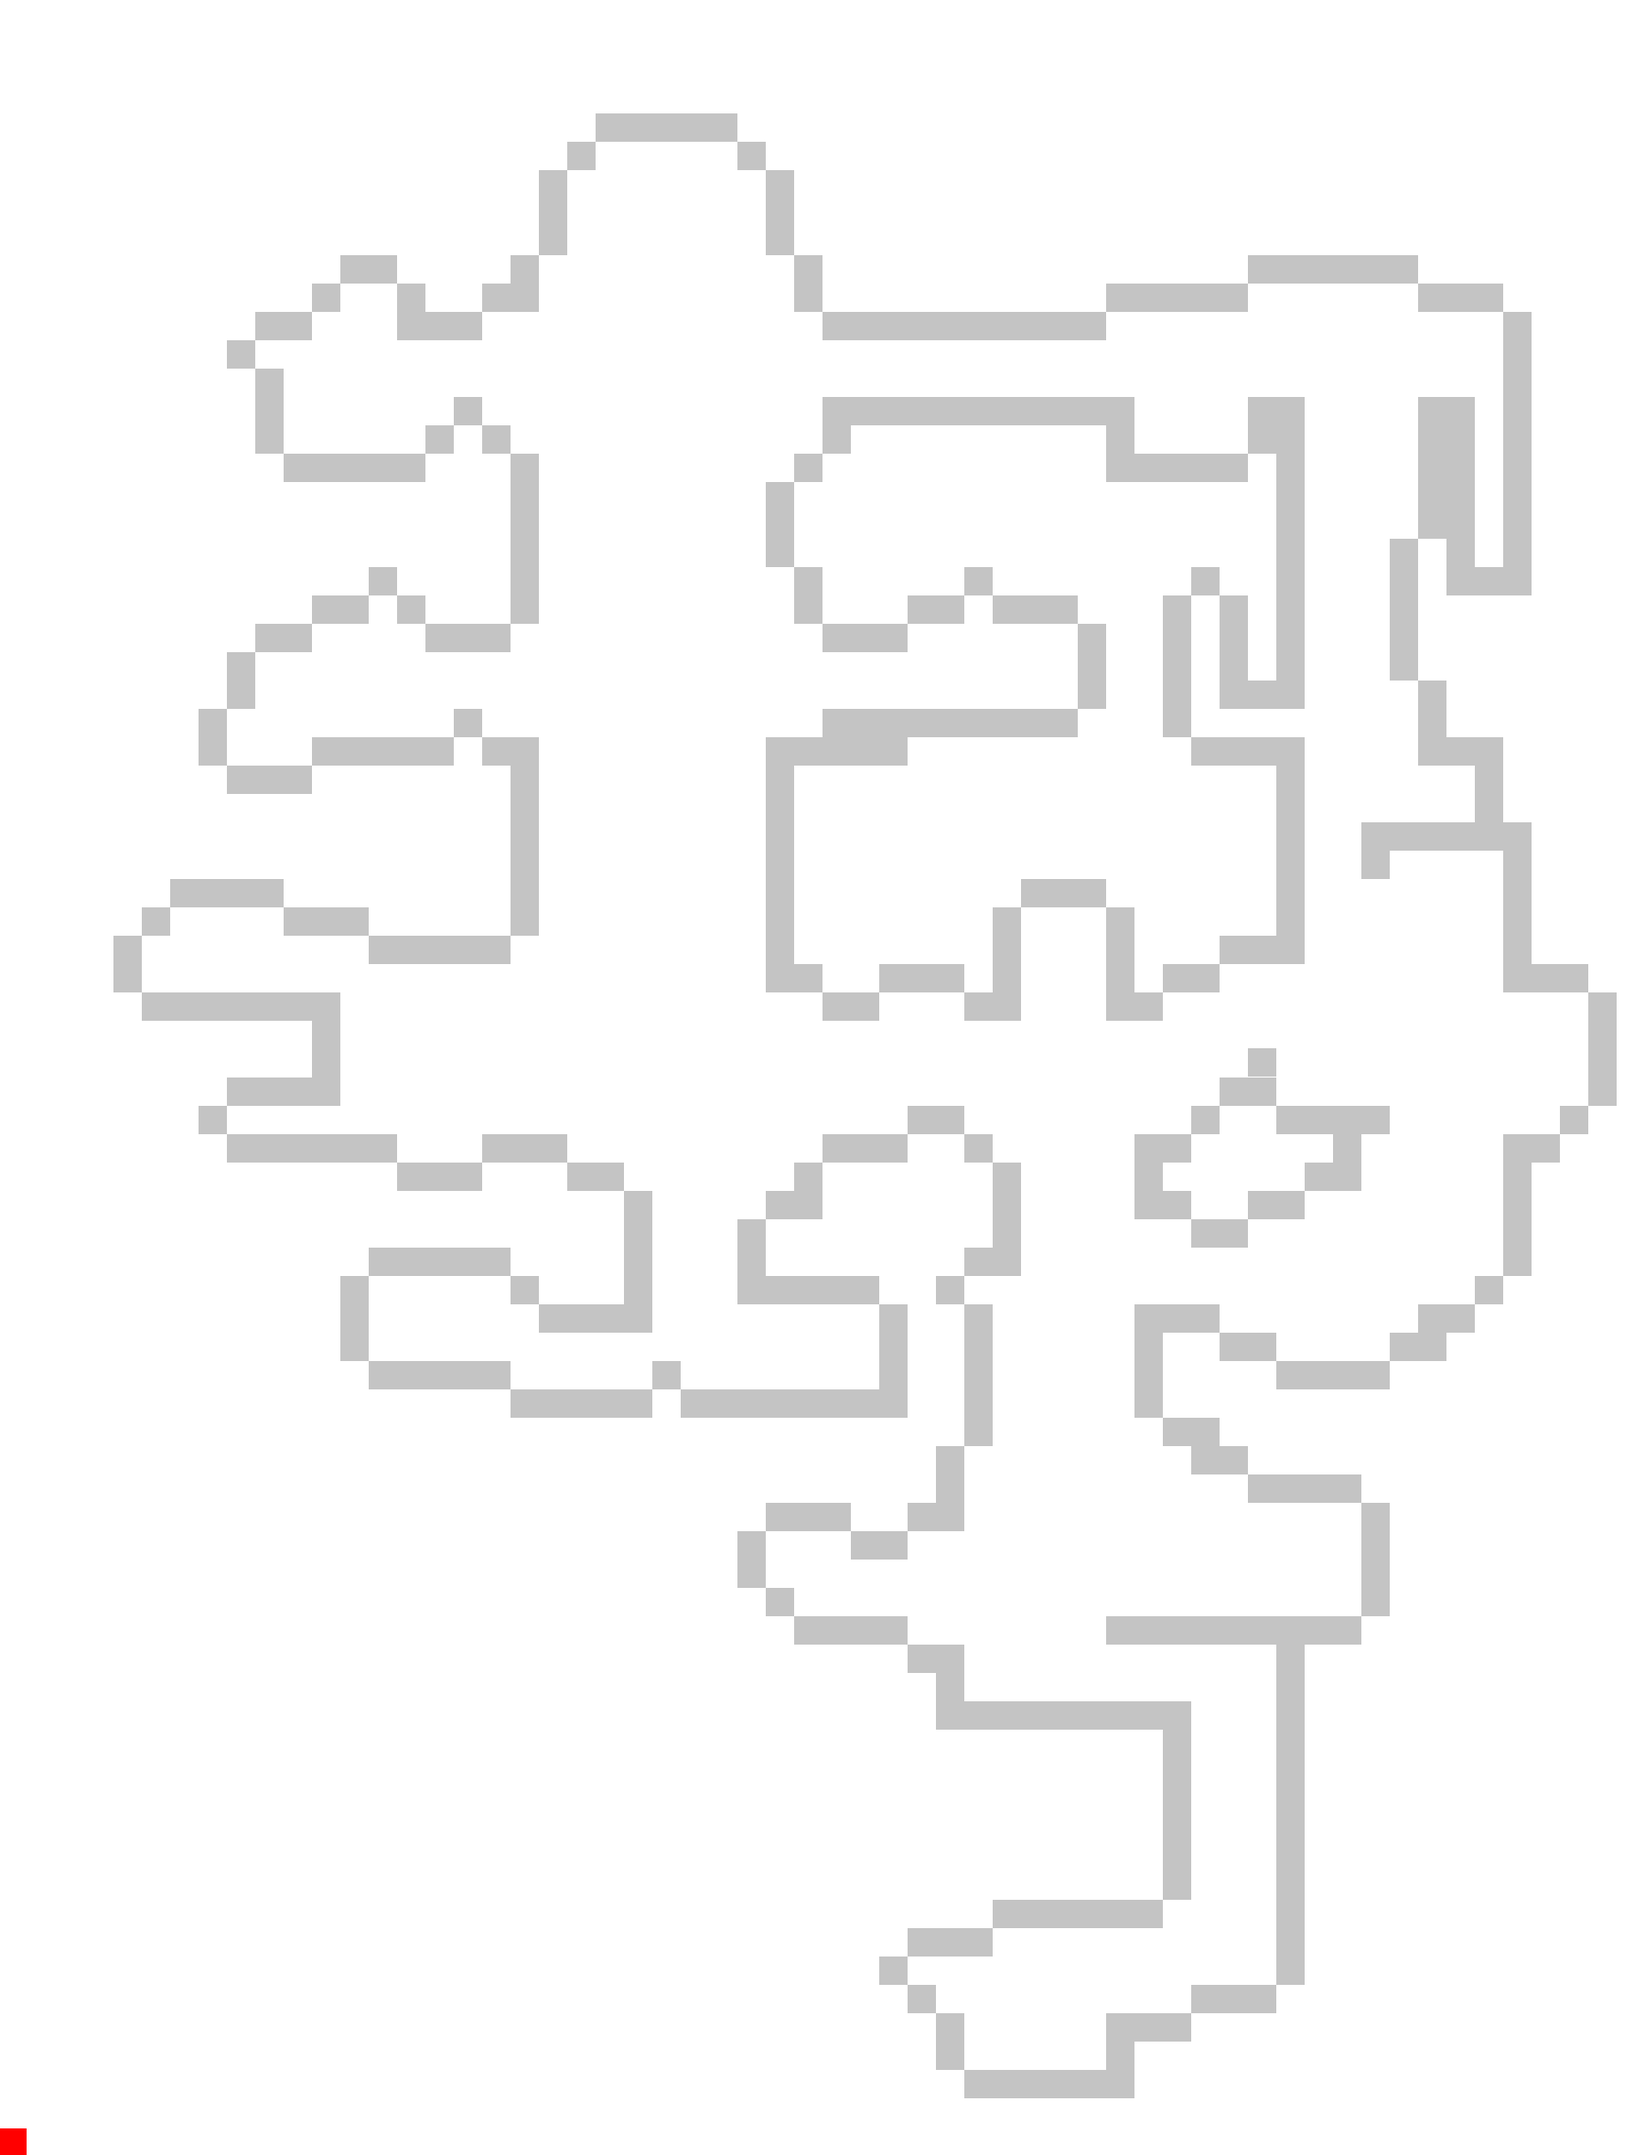
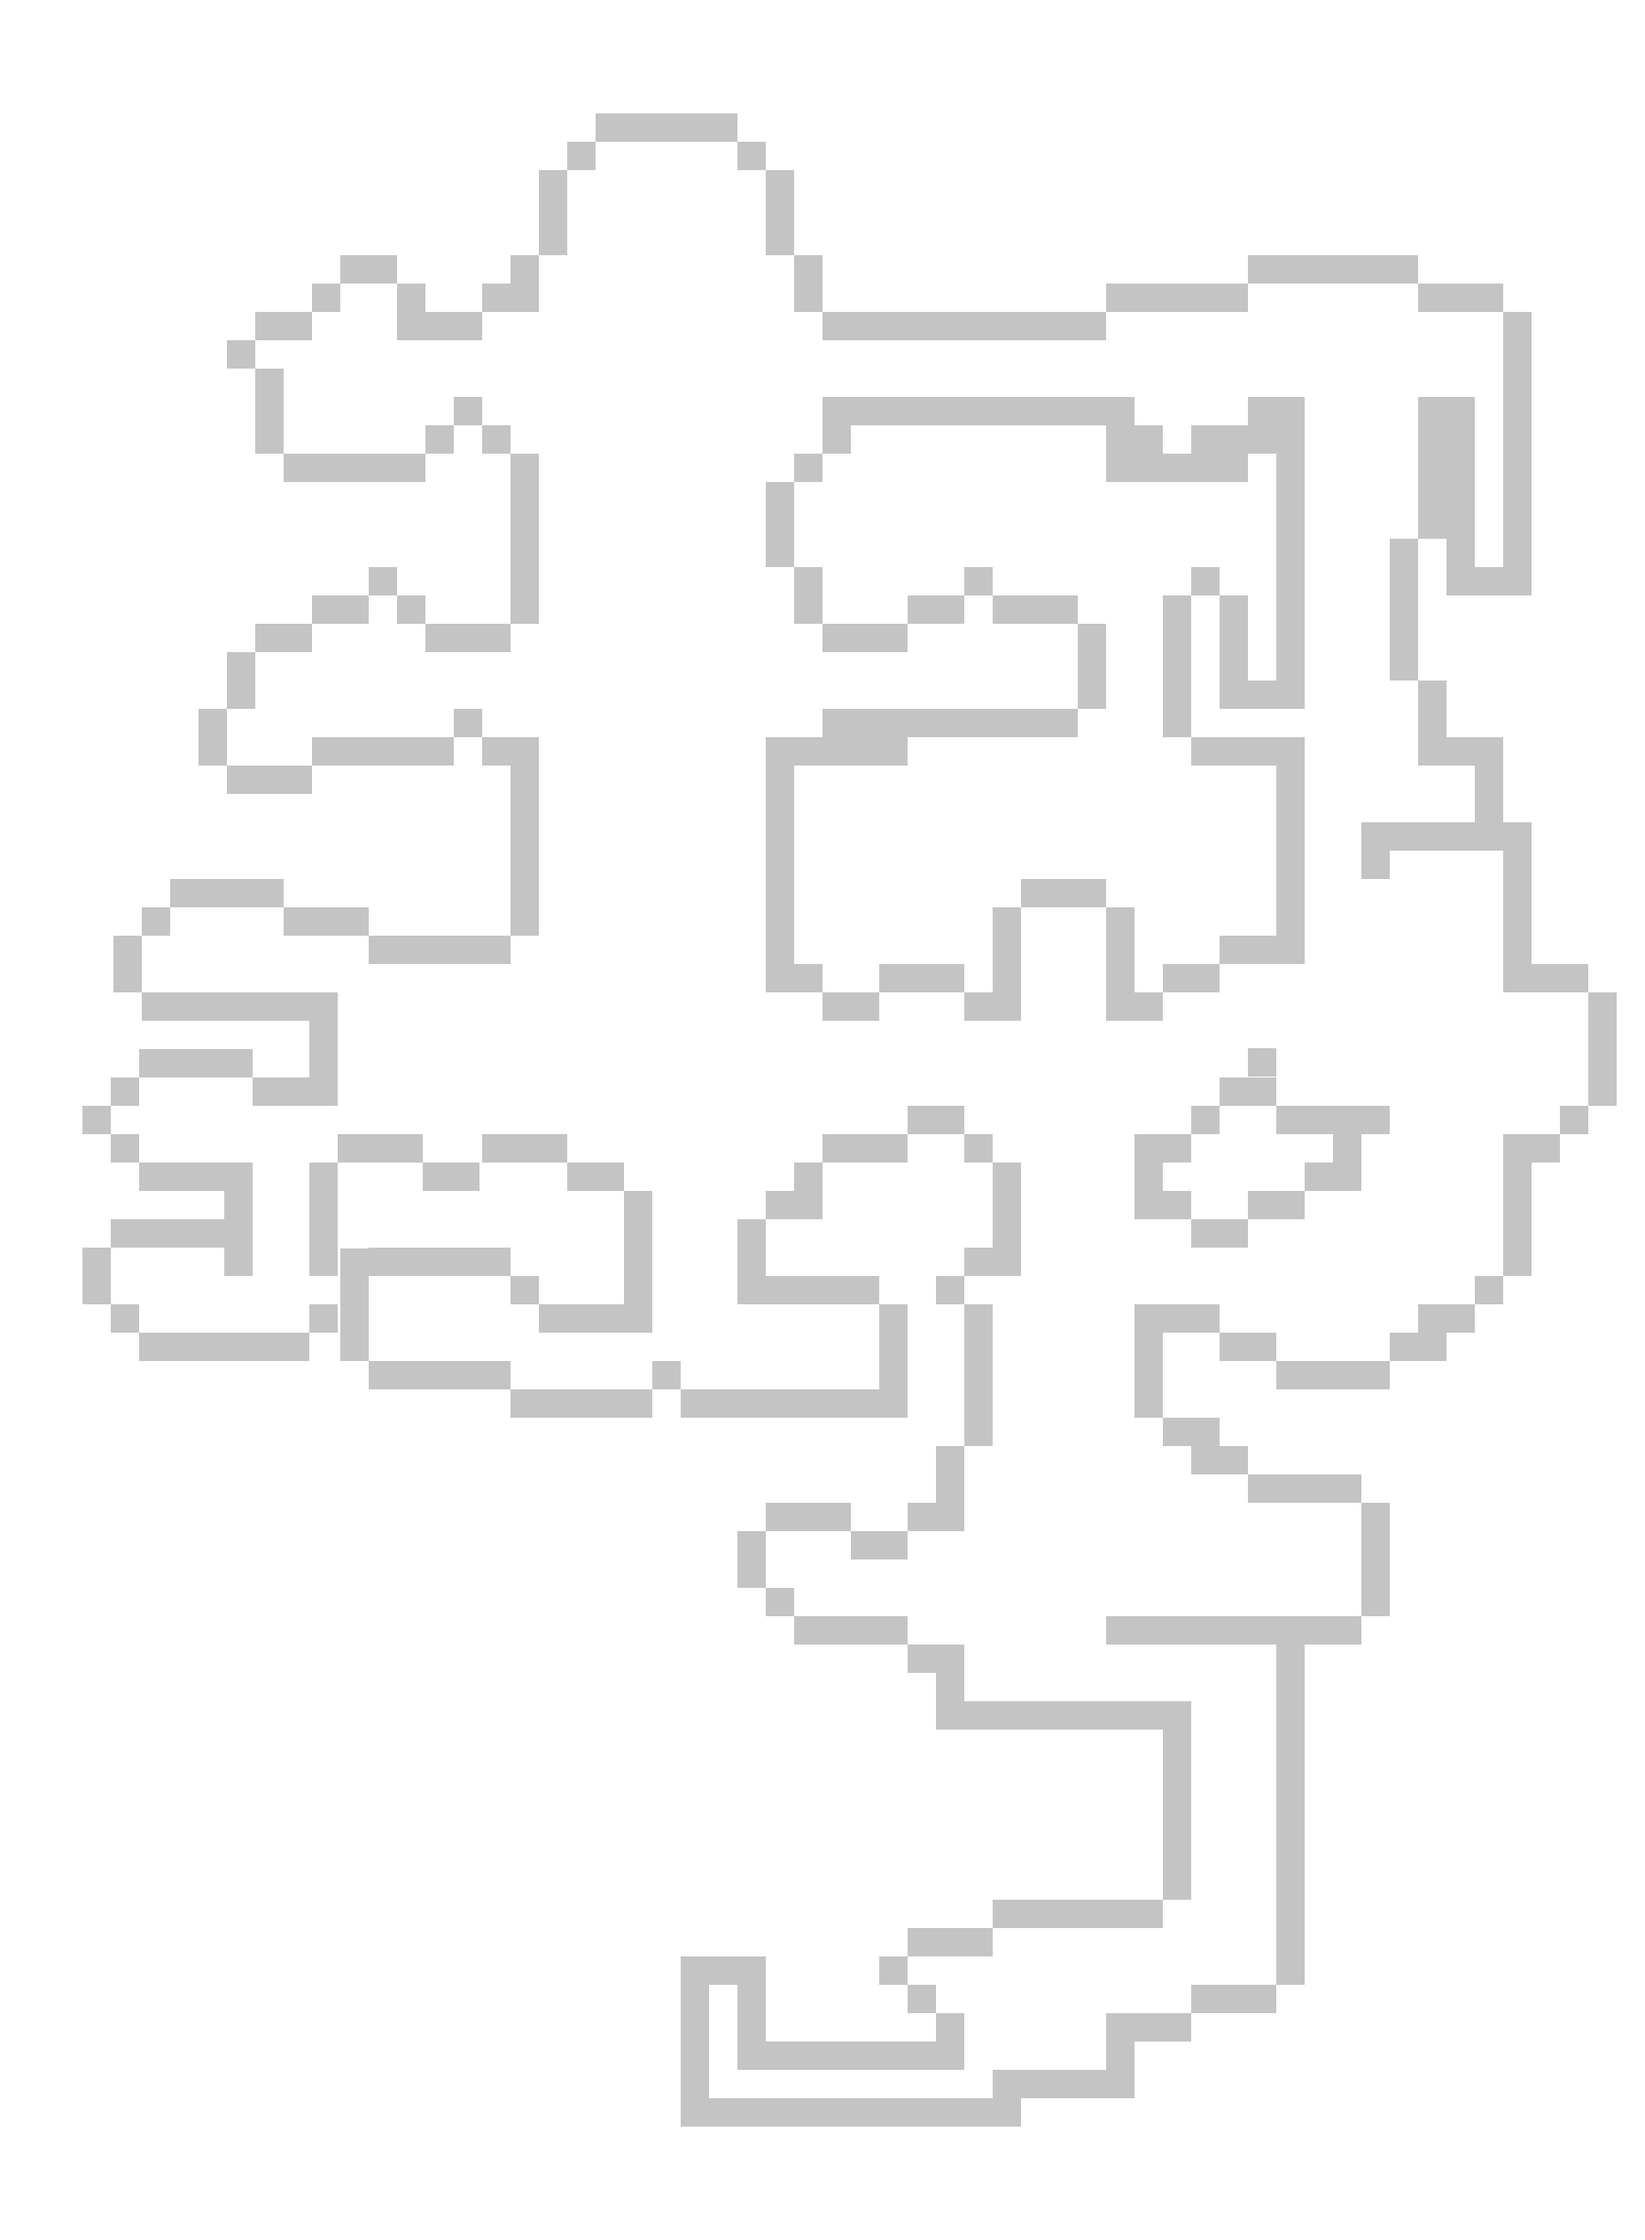
new map + treasure

diff --git a/js/walls.js b/js/walls.js
@@ -78,6 +78,9 @@ const WALLS = {
     [utils.asGridCoord(8,13)]: true,
     [utils.asGridCoord(20,13)]: true,
     [utils.asGridCoord(30,13)]: true,
+    [utils.asGridCoord(31,13)]: true,
+    [utils.asGridCoord(33,13)]: true,
+    [utils.asGridCoord(34,13)]: true,
     [utils.asGridCoord(35,13)]: true,
     [utils.asGridCoord(36,13)]: true,
     [utils.asGridCoord(41,13)]: true,
@@ -286,17 +289,21 @@ const WALLS = {
     [utils.asGridCoord(47,33)]: true,
     [utils.asGridCoord(2,34)]: true,
     [utils.asGridCoord(47,34)]: true,
+    [utils.asGridCoord(-4,35)]: true,
+    [utils.asGridCoord(-3,35)]: true,
+    [utils.asGridCoord(-2,35)]: true,
+    [utils.asGridCoord(-1,35)]: true,
     [utils.asGridCoord(2,35)]: true,
     [utils.asGridCoord(35,35)]: true,
     [utils.asGridCoord(47,35)]: true,
-    [utils.asGridCoord(-1,36)]: true,
+    [utils.asGridCoord(-5,36)]: true,
     [utils.asGridCoord(0,36)]: true,
     [utils.asGridCoord(1,36)]: true,
     [utils.asGridCoord(2,36)]: true,
     [utils.asGridCoord(34,36)]: true,
     [utils.asGridCoord(35,36)]: true,
     [utils.asGridCoord(47,36)]: true,
-    [utils.asGridCoord(-2,37)]: true,
+    [utils.asGridCoord(-6,37)]: true,
     [utils.asGridCoord(23,37)]: true,
     [utils.asGridCoord(24,37)]: true,
     [utils.asGridCoord(33,37)]: true,
@@ -305,15 +312,10 @@ const WALLS = {
     [utils.asGridCoord(38,37)]: true,
     [utils.asGridCoord(39,37)]: true,
     [utils.asGridCoord(46,37)]: true,
-    [utils.asGridCoord(-1,38)]: true,
-    [utils.asGridCoord(0,38)]: true,
-    [utils.asGridCoord(1,38)]: true,
-    [utils.asGridCoord(2,38)]: true,
+    [utils.asGridCoord(-5,38)]: true,
     [utils.asGridCoord(3,38)]: true,
     [utils.asGridCoord(4,38)]: true,
-    [utils.asGridCoord(8,38)]: true,
-    [utils.asGridCoord(9,38)]: true,
-    [utils.asGridCoord(10,38)]: true,
+    [utils.asGridCoord(5,38)]: true,
     [utils.asGridCoord(20,38)]: true,
     [utils.asGridCoord(21,38)]: true,
     [utils.asGridCoord(22,38)]: true,
@@ -323,7 +325,11 @@ const WALLS = {
     [utils.asGridCoord(38,38)]: true,
     [utils.asGridCoord(44,38)]: true,
     [utils.asGridCoord(45,38)]: true,
-    [utils.asGridCoord(5,39)]: true,
+    [utils.asGridCoord(-4,39)]: true,
+    [utils.asGridCoord(-3,39)]: true,
+    [utils.asGridCoord(-2,39)]: true,
+    [utils.asGridCoord(-1,39)]: true,
+    [utils.asGridCoord(2,39)]: true,
     [utils.asGridCoord(6,39)]: true,
     [utils.asGridCoord(7,39)]: true,
     [utils.asGridCoord(11,39)]: true,
@@ -332,15 +338,26 @@ const WALLS = {
     [utils.asGridCoord(26,39)]: true,
     [utils.asGridCoord(31,39)]: true,
     [utils.asGridCoord(44,39)]: true,
+    [utils.asGridCoord(-1,40)]: true,
+    [utils.asGridCoord(2,40)]: true,
     [utils.asGridCoord(13,40)]: true,
     [utils.asGridCoord(18,40)]: true,
     [utils.asGridCoord(19,40)]: true,
     [utils.asGridCoord(26,40)]: true,
     [utils.asGridCoord(44,40)]: true,
+    [utils.asGridCoord(-5,41)]: true,
+    [utils.asGridCoord(-4,41)]: true,
+    [utils.asGridCoord(-3,41)]: true,
+    [utils.asGridCoord(-2,41)]: true,
+    [utils.asGridCoord(-1,41)]: true,
+    [utils.asGridCoord(2,41)]: true,
     [utils.asGridCoord(13,41)]: true,
     [utils.asGridCoord(17,41)]: true,
     [utils.asGridCoord(26,41)]: true,
     [utils.asGridCoord(44,41)]: true,
+    [utils.asGridCoord(-6,42)]: true,
+    [utils.asGridCoord(-1,42)]: true,
+    [utils.asGridCoord(2,42)]: true,
     [utils.asGridCoord(4,42)]: true,
     [utils.asGridCoord(5,42)]: true,
     [utils.asGridCoord(6,42)]: true,
@@ -349,6 +366,7 @@ const WALLS = {
     [utils.asGridCoord(13,42)]: true,
     [utils.asGridCoord(17,42)]: true,
     [utils.asGridCoord(44,42)]: true,
+    [utils.asGridCoord(-6,43)]: true,
     [utils.asGridCoord(3,43)]: true,
     [utils.asGridCoord(9,43)]: true,
     [utils.asGridCoord(13,43)]: true,
@@ -359,6 +377,8 @@ const WALLS = {
     [utils.asGridCoord(21,43)]: true,
     [utils.asGridCoord(24,43)]: true,
     [utils.asGridCoord(43,43)]: true,
+    [utils.asGridCoord(-5,44)]: true,
+    [utils.asGridCoord(2,44)]: true,
     [utils.asGridCoord(3,44)]: true,
     [utils.asGridCoord(10,44)]: true,
     [utils.asGridCoord(11,44)]: true,
@@ -371,6 +391,12 @@ const WALLS = {
     [utils.asGridCoord(33,44)]: true,
     [utils.asGridCoord(41,44)]: true,
     [utils.asGridCoord(42,44)]: true,
+    [utils.asGridCoord(-4,45)]: true,
+    [utils.asGridCoord(-3,45)]: true,
+    [utils.asGridCoord(-2,45)]: true,
+    [utils.asGridCoord(-1,45)]: true,
+    [utils.asGridCoord(0,45)]: true,
+    [utils.asGridCoord(1,45)]: true,
     [utils.asGridCoord(3,45)]: true,
     [utils.asGridCoord(22,45)]: true,
     [utils.asGridCoord(25,45)]: true,
@@ -483,22 +509,49 @@ const WALLS = {
     [utils.asGridCoord(24,66)]: true,
     [utils.asGridCoord(25,66)]: true,
     [utils.asGridCoord(36,66)]: true,
+    [utils.asGridCoord(15,67)]: true,
+    [utils.asGridCoord(16,67)]: true,
+    [utils.asGridCoord(17,67)]: true,
     [utils.asGridCoord(22,67)]: true,
     [utils.asGridCoord(36,67)]: true,
+    [utils.asGridCoord(15,68)]: true,
+    [utils.asGridCoord(17,68)]: true,
     [utils.asGridCoord(23,68)]: true,
     [utils.asGridCoord(33,68)]: true,
     [utils.asGridCoord(34,68)]: true,
     [utils.asGridCoord(35,68)]: true,
+    [utils.asGridCoord(15,69)]: true,
+    [utils.asGridCoord(17,69)]: true,
     [utils.asGridCoord(24,69)]: true,
     [utils.asGridCoord(30,69)]: true,
     [utils.asGridCoord(31,69)]: true,
     [utils.asGridCoord(32,69)]: true,
+    [utils.asGridCoord(15,70)]: true,
+    [utils.asGridCoord(17,70)]: true,
+    [utils.asGridCoord(18,70)]: true,
+    [utils.asGridCoord(19,70)]: true,
+    [utils.asGridCoord(20,70)]: true,
+    [utils.asGridCoord(21,70)]: true,
+    [utils.asGridCoord(22,70)]: true,
+    [utils.asGridCoord(23,70)]: true,
     [utils.asGridCoord(24,70)]: true,
     [utils.asGridCoord(30,70)]: true,
-    [utils.asGridCoord(25,71)]: true,
+    [utils.asGridCoord(15,71)]: true,
     [utils.asGridCoord(26,71)]: true,
     [utils.asGridCoord(27,71)]: true,
     [utils.asGridCoord(28,71)]: true,
     [utils.asGridCoord(29,71)]: true,
     [utils.asGridCoord(30,71)]: true,
+    [utils.asGridCoord(15,72)]: true,
+    [utils.asGridCoord(16,72)]: true,
+    [utils.asGridCoord(17,72)]: true,
+    [utils.asGridCoord(18,72)]: true,
+    [utils.asGridCoord(19,72)]: true,
+    [utils.asGridCoord(20,72)]: true,
+    [utils.asGridCoord(21,72)]: true,
+    [utils.asGridCoord(22,72)]: true,
+    [utils.asGridCoord(23,72)]: true,
+    [utils.asGridCoord(24,72)]: true,
+    [utils.asGridCoord(25,72)]: true,
+    [utils.asGridCoord(26,72)]: true,
 };

diff --git a/js/OverworldMap.js b/js/OverworldMap.js
@@ -115,8 +115,24 @@ const getRoute = (x,y, name, link) =>{
     return route;
 }
 
-
-
+const getTreasureBox = (x,y,box_id) => {
+    let box = new Person({
+        x: utils.withGrid(x),
+        y: utils.withGrid(y),
+        src: "./images/blankGuy.png",
+        useShadow:false,
+        talking: [
+            {
+                events: [
+                    {type: "textMessage", text: `Secret Treasure Unlocked!`},
+                    {type: "unlockTreasure", box_id:box_id},
+                    // {type: "redirectPerson", link: link, newTab: true},
+                ]
+            },
+        ]
+    });
+    return box;
+}
 
 class OverworldMap {
     constructor(config) {
@@ -259,14 +275,14 @@ class OverworldMap {
 
 window.OverworldMaps = {
     DemoRoom: {
-        lowerSrc: "./images/FINAL_FOR_REALZ_.png", // current best map is= ./images/official_assets/ourMap32.png
+        lowerSrc: "./images/acmrpg.png", // current best map is= ./images/official_assets/ourMap32.png
         // upperSrc: "./images/blank_guy.png",
         gameObjects: {
             hero: new Person({
                 isPlayerControlled: true,
                 src: "./images/Hero.png",
                 useShadow: true,
-                x: utils.withGrid(28), // 32 44
+                x: utils.withGrid(28), // Starting point: 28,32
                 y: utils.withGrid(32),
             }),
 
@@ -493,6 +509,15 @@ window.OverworldMaps = {
             facebookPerson2: getRoute(25,42,"Facebook", "https://www.facebook.com/acmvitchapter/"),
             whatsappPerson1: getRoute(45,32,"Kick Start Learn Program", "https://with.acmvit.in/ksl"),
             whatsappPerson2: getRoute(46,32,"Kick Start Learn Program", "https://with.acmvit.in/ksl"),
+
+            treasureBox1: getTreasureBox(21,47,1),
+            treasureBox2: getTreasureBox(-2,37,2),
+            treasureBox3: getTreasureBox(44,32,3),
+            treasureBox4: getTreasureBox(32,19,4),
+            treasureBox5: getTreasureBox(26,19,5),
+            treasureBox6: getTreasureBox(43,18,6),
+            treasureBox7: getTreasureBox(15,68,7),
+            treasureBox8: getTreasureBox(37,50,8),
 
         },
         walls: WALLS,

diff --git a/js/GameObject.js b/js/GameObject.js
@@ -16,7 +16,7 @@ class GameObject {  // all people
     }
 
     mount(map) {
-        console.log("Mounting");
+        // console.log("Mounting");
         this.isMounted = true;
         map.addWall(this.x, this.y);
 
@@ -41,12 +41,6 @@ class GameObject {  // all people
         // setting up the event with the relevant info
         let eventConfig = this.behaviorLoop[this.behaviorLoopIndex];
         eventConfig.who = this.id;
-
-        // Event config for link teleportation
-        // eventConfig.link = this.link || '';
-        // eventConfig.newTab = this.newTab || false;
-
-        console.log(eventConfig.link);
 
         // create an event instance out of our next event config
         const eventHandler = new OverworldEvent({map, event: eventConfig});

diff --git a/js/OverworldEvent.js b/js/OverworldEvent.js
@@ -82,13 +82,21 @@ class OverworldEvent {
     
     redirectPerson(resolve) {
         let link = this.event.link;
-        let newTab = this.event.newTab || false;
+        let newTab = this.event.newTab || false; // NOT WORKING. Always opening new tab
         if(newTab) {
-            console.log("AGAIN");
+            // console.log("AGAIN");
             window.open(link, '_blank');
         } else {
             window.open(link);
         }
+        resolve();
+    }
+
+    unlockTreasure(resolve) {
+        let box_id = this.event.box_id;
+        // console.log("BID: ", box_id);
+        applicantData['treasuresObtained'].push(box_id);
+        console.log(applicantData);
         resolve();
     }
 }

diff --git a/js/init.js b/js/init.js
@@ -1,3 +1,8 @@
+// contains the applicant's data (used to keep track of the treasure unlocked)
+var applicantData = {
+    treasuresObtained: []
+};
+
 (function() {
     // console.log("Working");
     const overworld = new Overworld({

diff --git a/wallGenerator.py b/wallGenerator.py
@@ -6,7 +6,7 @@ import cv2
 def removeFlagged(coordinate_list):
 
     # For insta, twitter blocks
-    flagged = [[31,40],[32,40],[33,41],[34,41],[35,40],[36,40],[37,39],[38,39],[26,42],[25,42],[45,32],[46,32]]
+    flagged = [[31,40],[32,40],[33,41],[34,41],[35,40],[36,40],[37,39],[38,39],[26,42],[25,42],[45,32],[46,32],[10,38],[9,38],[8,38]]
     newList = []
 
     for point in coordinate_list:
